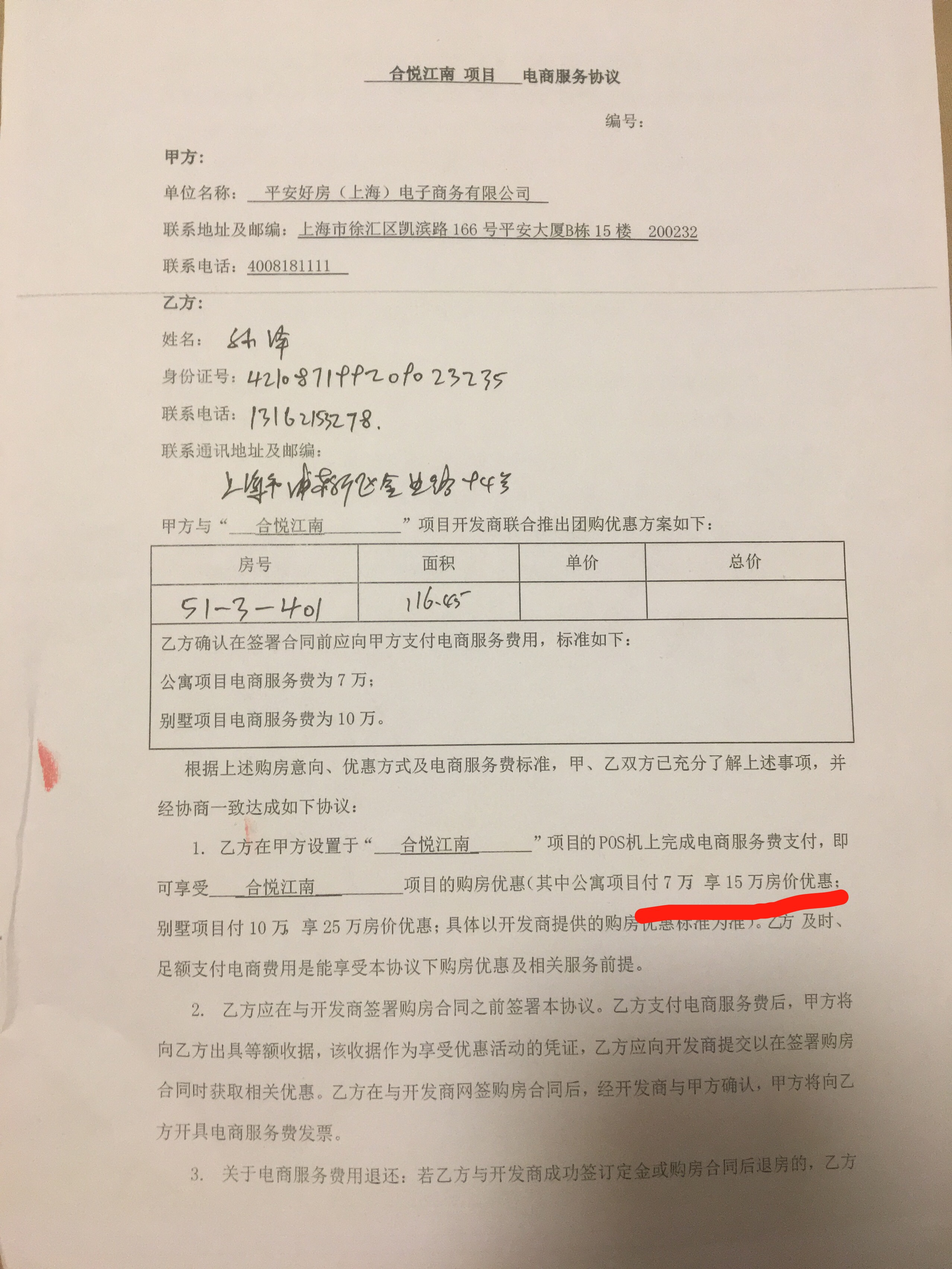
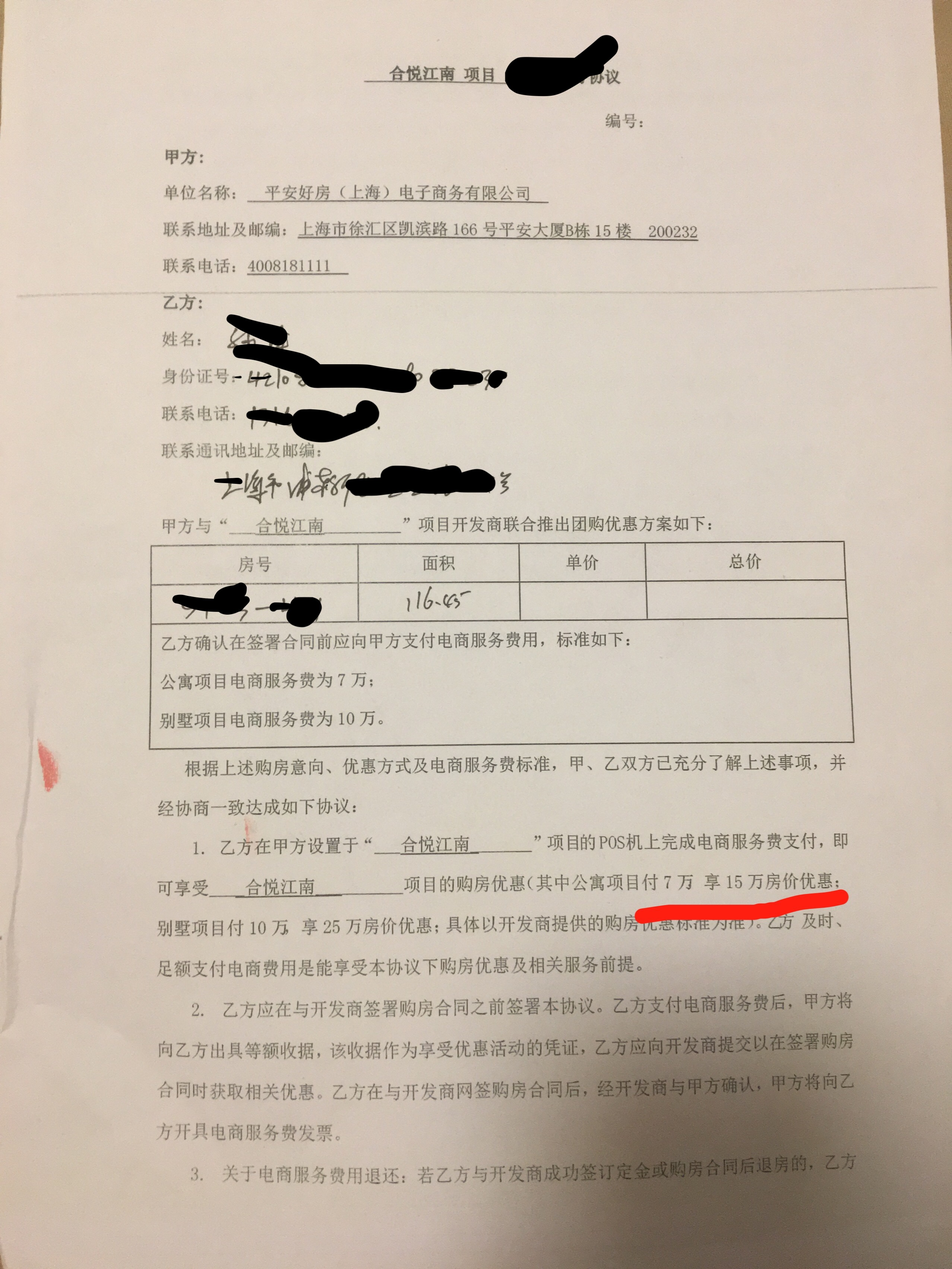
no message

diff --git a/other.md b/other.md
@@ -1,8 +1,16 @@
 # 平安地产与平安好房违规收取电商费
-## 事件经过
-去年5月份在浙江桐乡买了一套房子，开发商是中国平安地产，当时中国平安地产销售人员以7万抵15万的优惠让我们买了这套房子，总价是151万（包括7万），后来支付首付的时候这7万元只开了收据，并且收据上写的是电商费，而且是付给了平安好房，购房合同里也没有提及这7万元抵15万元，后来加了业主群发现大多数业主都缴纳了这7万元的电商费，但电商费是国家明令禁止收取的，目前有50多位业主已经投诉上去了。
+## 案件描述
+1. 嘉兴购别墅洋房，由于开发商销售人员诱导，致使我们与第三方（平安好房）签署了一份电商协议（团购费），噱头是以7万抵15万的优惠给到业主。后因优惠政策购买合悦江南一街坊的住房，后首付款期间让我们分两次付款，一部分是团购费，一部分是首付款（本以为付款全部为首付款，后被告知要分开付款，一部分是首付款，另一部分是团购费，并且团购费只开了收据），后经有经验的购房者提醒，这是违规行为，后续向12345转12348（国家法律咨询热线）咨询开发商收取电商费属于违规行为，并且向嘉兴市建委求证房屋备案价后证实备案价与合同出售价格不符，而且并没有15万的优惠。
+2. 本小区有一个业主群，群里有不少的平安内部人员也购买了此房，并没有交电商费，而且很肯定的语气说这就是给平安好房的中介费，见下图：![](pics/WechatIMG887.jpeg) ![](pics/WechatIMG888.jpeg)
+
+3. 业主希望通过政府维权，并没有得到解决，嘉兴政府回复“平安好房收取费用与开发商没有关系”，后打电话向平安好房投诉，得到的回复是“我们与开发商签署了相关协议，让业主找开发商解决此问题”，双方相互推脱，并不解决此问题，由此借助网络平台及媒体的力量来帮助我们这些受害者解决问题
+
+
+
 
 ## 相关材料
 ### 房屋买卖合同：
 ![](./IMG_0997.JPG)
 ![](./IMG_2975.JPG)
+![](./IMG_2990.JPG)
+![](./IMG_6761.JPG)
